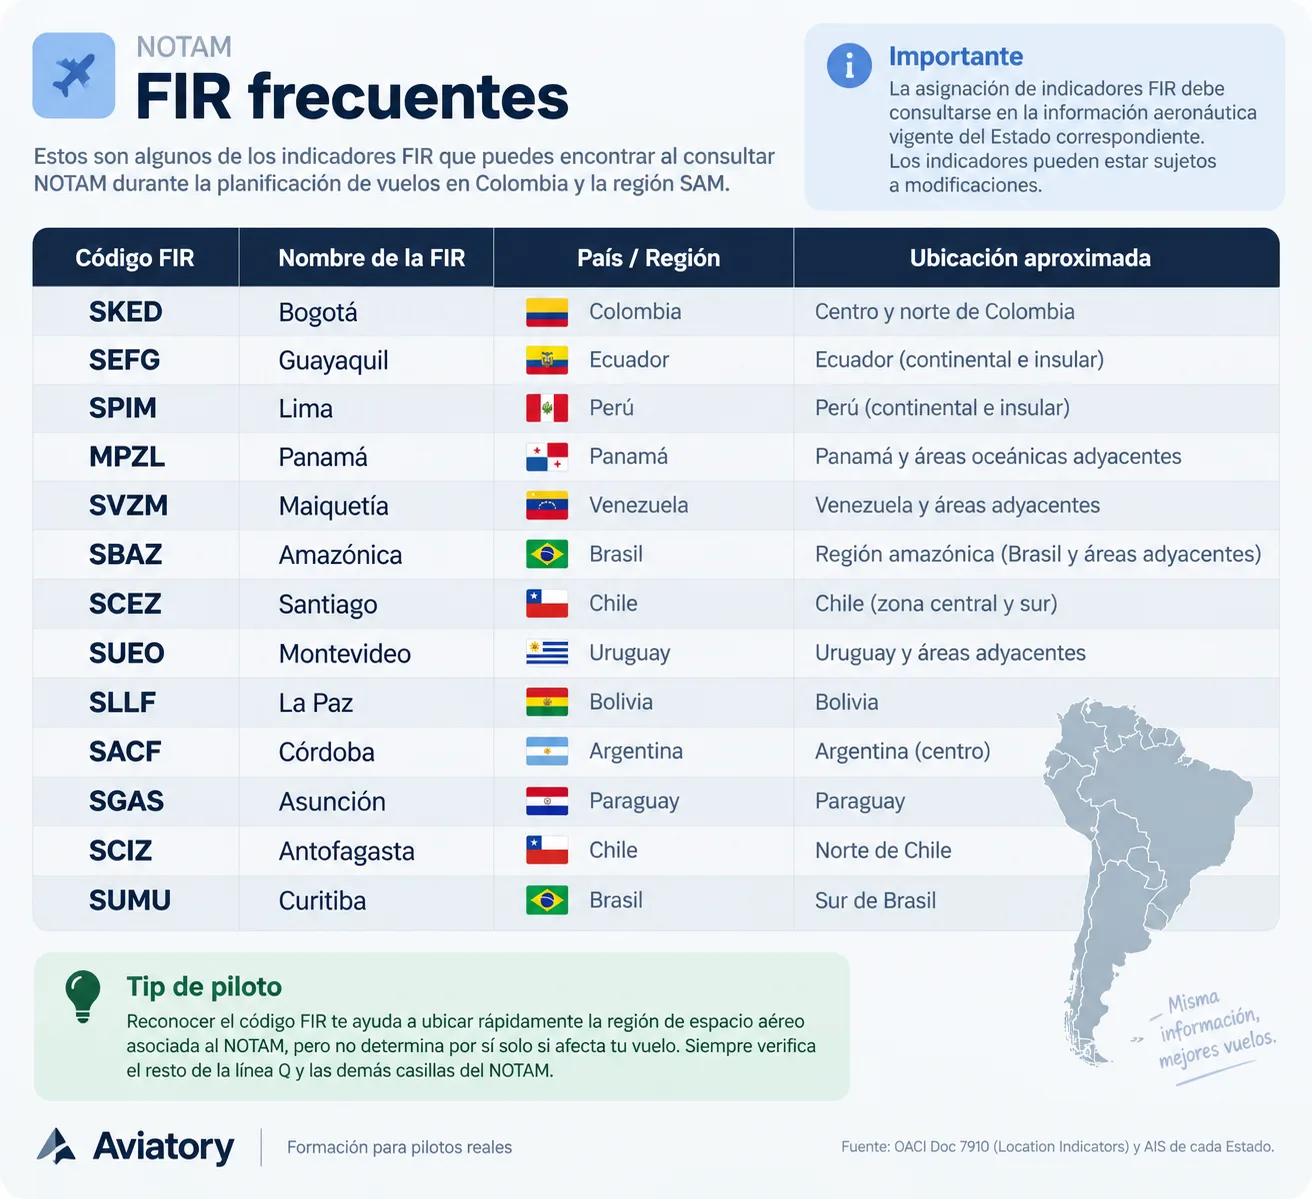
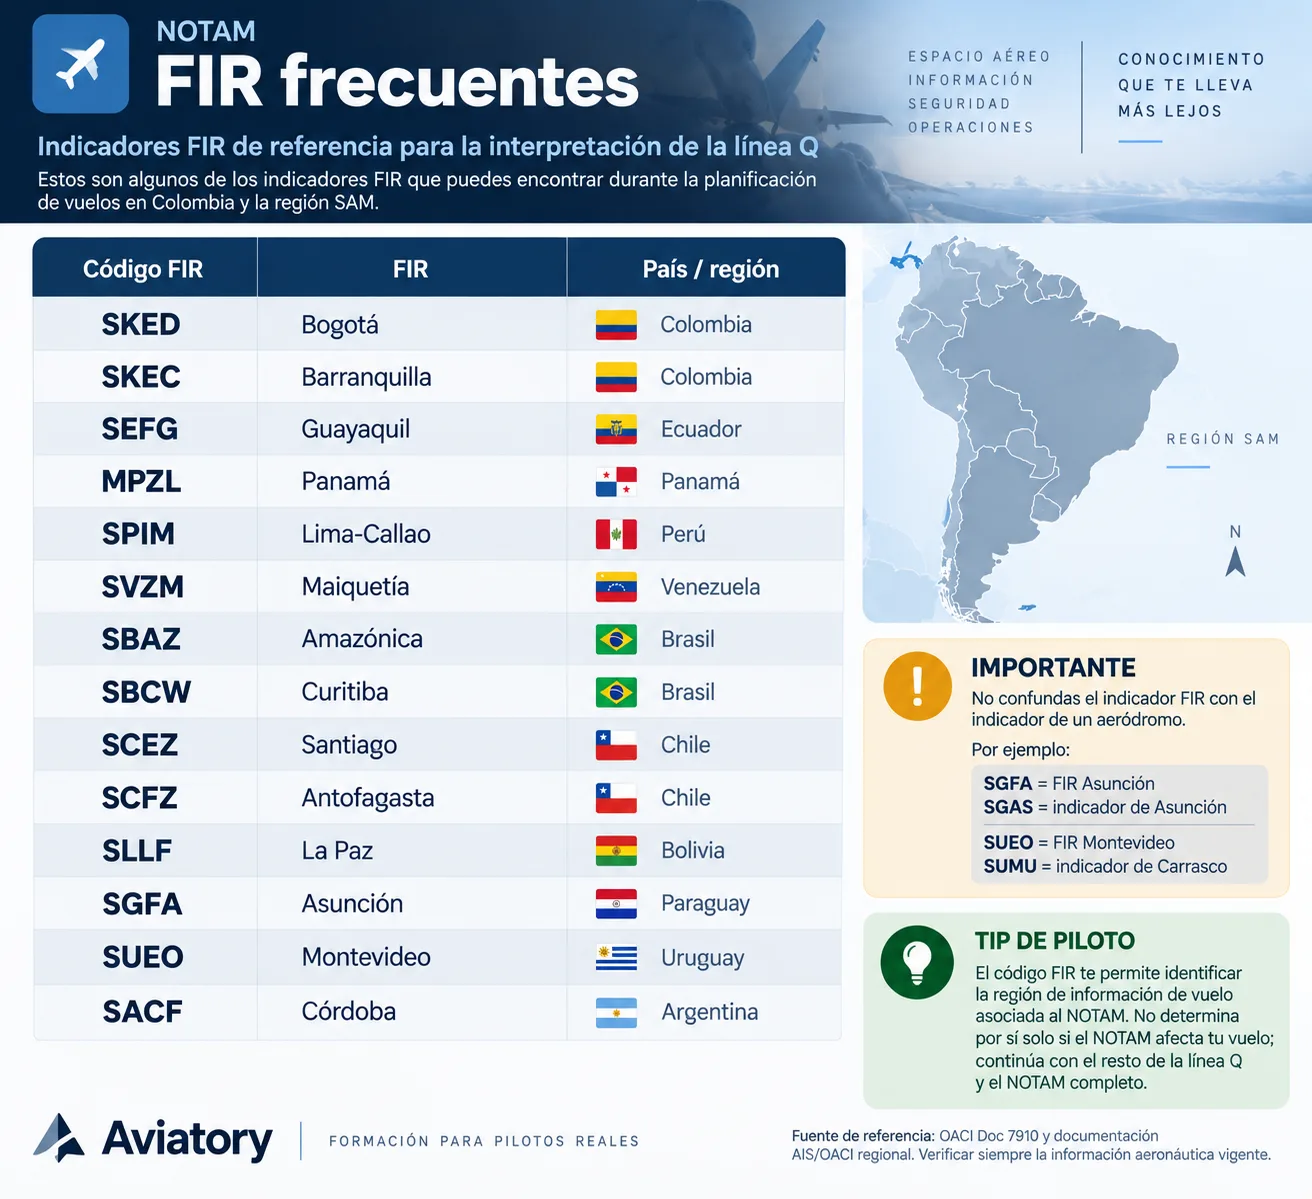
contenido(leccion 05): la pieza ① respira como un apartado, no como tres bloques
Lo que Camilo vio: la pregunta iba tan grande como un titulo de seccion y
los tres parrafos, con el aire que separa los bloques de la leccion, se
leian como tres asuntos distintos. Ahora la cabecera de la pieza es lo
grande, en orden "FIR SEFG" como lo diria un piloto, y debajo cuelga un
`apartado`: la pregunta mas pequena y sus parrafos pegados a ella y entre
si, porque son una sola idea. El "que significa SEFG" deja de ser un
epigrafe con tabla y pasa a ser la ultima frase del apartado: en el NOTAM
del ejemplo, SEFG corresponde a la FIR de Guayaquil.

Entra la tabla de FIR frecuentes corregida: SGFA Asuncion y SBCW Curitiba
en vez de los indicadores de aerodromo, mas Barranquilla y Antofagasta, y
un recuadro que ensena a no confundir la FIR con el aerodromo. El alt la
describe tal como quedo.

diff --git a/src/lib/notamLesson.ts b/src/lib/notamLesson.ts
@@ -174,6 +174,16 @@ export type LessonBlock =
       color?: string
     }
   /**
+   * Una pregunta y los párrafos que la contestan, como UN bloque.
+   *
+   * Es el escalón por debajo del `sub`, para dentro de una pieza: la pregunta
+   * va más pequeña que el título de sección y sus párrafos van pegados a ella
+   * y entre sí, porque son una sola idea. Sueltos, con el aire que separa los
+   * bloques de la lección, tres frases sobre lo mismo se leían como tres
+   * asuntos distintos.
+   */
+  | { kind: "apartado"; titulo: string; parrafos: string[] }
+  /**
    * Encabezados de NOTAM que se abren para enseñar de qué está hecho cada uno.
    *
    * Cerrados son tres líneas de código, como las ve el piloto en el briefing.
@@ -1084,25 +1094,20 @@ export const LESSON_SCREENS: DocScreen[] = [
         detalle: "Flight Information Region",
         color: LINEA_Q_COLOR.fir,
       },
-      { kind: "sub", text: "¿Qué es una FIR?" },
       {
-        kind: "p",
-        text: "Una **FIR** (Flight Information Region) es una región definida de espacio aéreo dentro de la cual se proporcionan servicios de información de vuelo y servicio de alerta.",
+        kind: "apartado",
+        titulo: "¿Qué es una FIR?",
+        parrafos: [
+          "Una **FIR** (Flight Information Region) es una región definida de espacio aéreo dentro de la cual se proporcionan servicios de información de vuelo y servicio de alerta.",
+          "Una FIR no es un aeropuerto ni una pista. Es una región de espacio aéreo que puede abarcar grandes extensiones y contener diferentes aeródromos, rutas y sectores.",
+          "En la línea Q del NOTAM, el primer componente identifica la FIR asociada con la información.",
+          "En el caso del NOTAM del ejemplo, `SEFG` corresponde a la FIR de Guayaquil.",
+        ],
       },
-      {
-        kind: "p",
-        text: "Una FIR no es un aeropuerto ni una pista. Es una región de espacio aéreo que puede abarcar grandes extensiones y contener diferentes aeródromos, rutas y sectores.",
-      },
-      {
-        kind: "p",
-        text: "En la línea Q del NOTAM, el primer componente identifica la FIR asociada con la información.",
-      },
-      { kind: "sub", text: "¿Qué significa SEFG?" },
-      { kind: "kv", items: [{ k: "SEFG", v: "FIR Guayaquil" }] },
       {
         kind: "figura",
         src: "/modulos/notam/fir-frecuentes.webp",
-        alt: "Tabla de FIR frecuentes al consultar NOTAM en Colombia y la región SAM, con código, nombre, país y ubicación aproximada: SKED Bogotá, SEFG Guayaquil, SPIM Lima, MPZL Panamá, SVZM Maiquetía, SBAZ Amazónica, SCEZ Santiago, SUEO Montevideo, SLLF La Paz, SACF Córdoba, SGAS Asunción, SCIZ Antofagasta y SUMU Curitiba. Incluye la advertencia de que los indicadores deben consultarse en la información aeronáutica vigente de cada Estado, y el consejo de que reconocer la FIR ubica la región pero no determina por sí solo si el aviso afecta al vuelo.",
+        alt: "Tabla de FIR frecuentes al consultar NOTAM en Colombia y la región SAM, con código, nombre y país: SKED Bogotá, SKEC Barranquilla, SEFG Guayaquil, MPZL Panamá, SPIM Lima-Callao, SVZM Maiquetía, SBAZ Amazónica, SBCW Curitiba, SCEZ Santiago, SCFZ Antofagasta, SLLF La Paz, SGFA Asunción, SUEO Montevideo y SACF Córdoba. Un recuadro advierte no confundir el indicador de la FIR con el de un aeródromo: SGFA es la FIR Asunción y SGAS el aeródromo; SUEO es la FIR Montevideo y SUMU el aeródromo de Carrasco. Y el consejo de piloto: el código FIR ubica la región del aviso, pero no determina por sí solo si afecta al vuelo.",
         ancho: 1312,
         alto: 1199,
       },

diff --git a/src/components/DocLessonBlocks.tsx b/src/components/DocLessonBlocks.tsx
@@ -455,29 +455,51 @@ export function DocBlock({ block }: { block: DocBlockData }) {
 
     case "componente": {
       const color = block.color ?? ACENTO
+      // Primero el nombre y después el token: se lee "FIR, SEFG", que es como
+      // un piloto lo diría. Y grande, porque es el título de la pieza: lo que
+      // cuelga debajo va más pequeño.
       return (
-        <div className="flex flex-wrap items-center gap-x-3 gap-y-1 border-b doc-rule pb-3">
+        <div className="flex flex-wrap items-baseline gap-x-3 gap-y-1 border-b doc-rule pb-3.5">
           <span
-            className="mono grid h-7 w-7 flex-none place-items-center rounded-full text-[13px] font-semibold text-white"
+            className="mono grid h-8 w-8 flex-none place-items-center self-center rounded-full text-[14px] font-semibold text-white"
             style={{ background: color }}
           >
             {block.n}
           </span>
-          <span className="mono text-[20px] font-semibold" style={{ color }}>
-            {block.token}
-          </span>
           <span
-            className="ln-display text-[20px] font-semibold lg:text-[24px]"
+            className="ln-display text-[26px] font-semibold lg:text-[30px]"
             style={{ lineHeight: 1.1, color: "var(--doc-fg)" }}
           >
             {block.nombre}
           </span>
+          <span className="mono text-[22px] font-semibold lg:text-[24px]" style={{ color }}>
+            {block.token}
+          </span>
           {block.detalle && (
-            <span className="text-[14px] doc-muted">{block.detalle}</span>
+            <span className="text-[14.5px] doc-muted">{block.detalle}</span>
           )}
         </div>
       )
     }
+
+    case "apartado":
+      return (
+        <section>
+          <h3
+            className="ln-display m-0 text-[18px] font-semibold lg:text-[20px]"
+            style={{ lineHeight: 1.2, color: "var(--doc-fg)" }}
+          >
+            {block.titulo}
+          </h3>
+          <div className="mt-2.5 flex flex-col gap-3">
+            {block.parrafos.map((t, i) => (
+              <p key={i} className="m-0 text-[15px] leading-[1.7]">
+                {renderInline(t)}
+              </p>
+            ))}
+          </div>
+        </section>
+      )
 
     case "encabezados":
       return <Encabezados items={block.items} pista={block.pista} />
